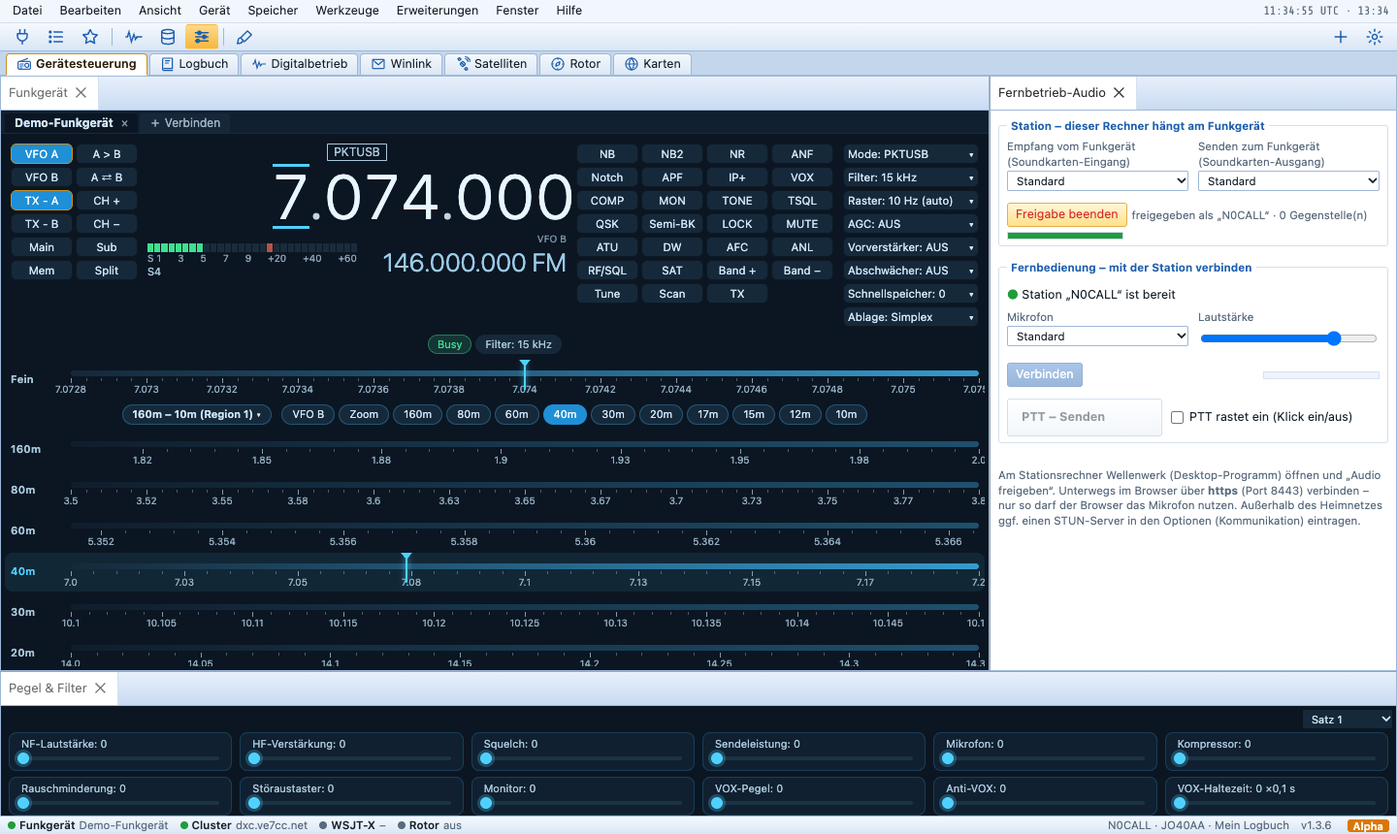
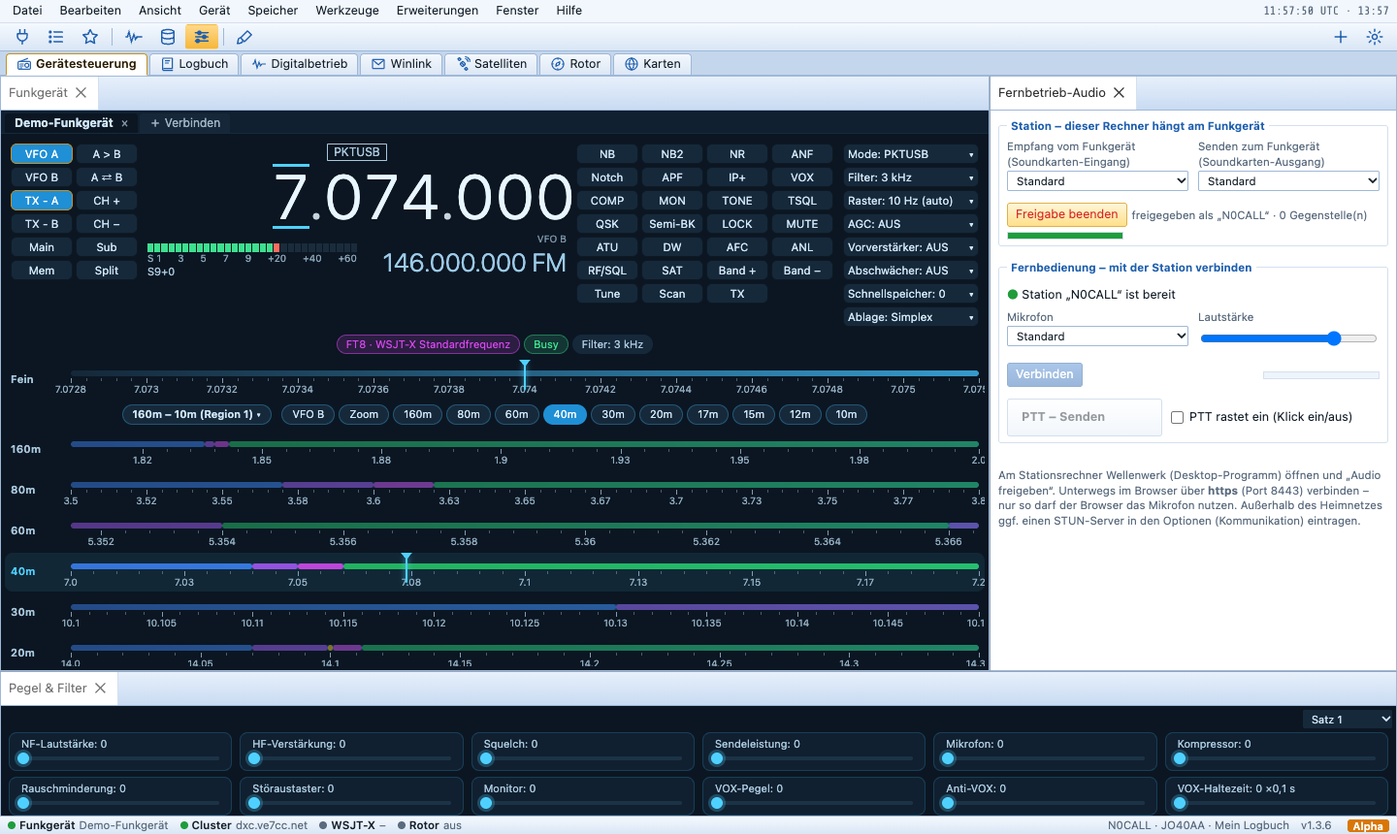
Bandplan: Betriebsart und Filter automatisch, Frequenzliste der Digimodes
- Bandplan-Bereiche Region 1 (IARU, 160 m–23 cm), Region 2/3 vereinfacht;
  farbig auf den Bandskalen, aktueller Bereich als Kennzeichen
- Automatik: beim Wechsel des Bereichs oder auf bekannte Digi-Frequenzen
  Betriebsart und Filter nach Bandplan; Handwahl gilt bis zum
  Bereichswechsel; nicht bei Signalerkennung/Bandtasten mit gemerktem
  Mode; abschaltbar (Optionen → Bandplan)
- Frequenzliste FT8/FT4/JS8/WSPR/MSK144/PSK31/RTTY/Olivia/SSTV/FreeDV/
  CW-QRP: Fenster in Gerätesteuerung und Digitalbetrieb, Ausklappliste im
  FreeDV- und SSTV-Fenster; Klick stellt Frequenz, Mode, Filter ein
- Anleitung DE/EN, Bilder, englische Texte

Claude-Session: https://claude.ai/code/session_017n9uLddWcii3wRCcwvWadf

diff --git a/static/js/bandplan.js b/static/js/bandplan.js
@@ -1,0 +1,130 @@
+"use strict";
+// Wellenwerk – Bandplaene (Bereiche je Band mit Standard-Betriebsart und Filter) und Frequenzliste der Digimodes.
+// Region 1 nach dem IARU-Region-1-Bandplan (vereinfacht auf die Nutzungsbereiche), Region 2/3 vereinfacht.
+// Automatik: Wer in einen anderen Bereich oder auf eine bekannte Digi-Frequenz abstimmt, bekommt Betriebsart und Filter
+// nach Bandplan. Von Hand gewaehlte Betriebsart gilt, bis der Bereich verlassen wird. Abschaltbar (Optionen → Bandplan).
+
+// Art des Bereichs: Farbe, Name, Betriebsart (leer = Betriebsart nicht aendern)
+const SEG_KIND = {
+  cw: { c: "#3b82f6", n: "CW", m: "CW" }, narrow: { c: "#a855f7", n: "Schmalband / Digi", m: "PKTUSB" }, digi: { c: "#d946ef", n: "Digimodes", m: "PKTUSB" },
+  ssb: { c: "#22c55e", n: "SSB", m: "" }, all: { c: "#14b8a6", n: "alle Betriebsarten", m: "" }, beacon: { c: "#facc15", n: "Baken", m: "CW" },
+  fm: { c: "#f59e0b", n: "FM", m: "FM" }, rep: { c: "#fb923c", n: "FM-Relais", m: "FM" }, sat: { c: "#ef4444", n: "Satelliten", m: "" }, atv: { c: "#64748b", n: "ATV / breitbandig", m: "" },
+};
+const MODE_BW = { CW: 500, CWR: 500, USB: 2400, LSB: 2400, PKTUSB: 3000, PKTLSB: 3000, AM: 6000, FM: 0, RTTY: 500 };
+// [von kHz, bis kHz, Art, Betriebsart (optional, sonst aus der Art; SSB unter 10 MHz LSB, darueber USB), Bezeichnung]
+const BANDSEGS = {};
+BANDSEGS.R1 = [
+  [1810, 1838, "cw"], [1838, 1840, "narrow"], [1840, 1843, "digi"], [1843, 2000, "ssb"],
+  [3500, 3570, "cw"], [3570, 3600, "narrow"], [3600, 3620, "digi"], [3620, 3800, "ssb"],
+  [5351.5, 5354, "narrow"], [5354, 5366, "ssb", "USB"], [5366, 5366.5, "narrow"],
+  [7000, 7040, "cw"], [7040, 7050, "narrow"], [7050, 7060, "digi"], [7060, 7200, "ssb"],
+  [10100, 10130, "cw"], [10130, 10150, "narrow"],
+  [14000, 14070, "cw"], [14070, 14099, "narrow"], [14099, 14101, "beacon", "", "IBP-Baken"], [14101, 14112, "digi"], [14112, 14350, "ssb"],
+  [18068, 18095, "cw"], [18095, 18109, "narrow"], [18109, 18111, "beacon", "", "IBP-Baken"], [18111, 18168, "ssb"],
+  [21000, 21070, "cw"], [21070, 21110, "narrow"], [21110, 21120, "digi"], [21120, 21149, "narrow"], [21149, 21151, "beacon", "", "IBP-Baken"], [21151, 21450, "ssb"],
+  [24890, 24915, "cw"], [24915, 24929, "narrow"], [24929, 24931, "beacon", "", "IBP-Baken"], [24931, 24990, "ssb"],
+  [28000, 28070, "cw"], [28070, 28190, "narrow"], [28190, 28225, "beacon"], [28225, 29000, "ssb"], [29000, 29100, "all", "AM"], [29100, 29200, "fm", "", "FM-Simplex"],
+  [29200, 29300, "digi", "", "Digimodes / Packet"], [29300, 29510, "sat", "USB", "Satelliten-Downlink"], [29510, 29590, "rep", "", "Relais-Eingabe"], [29590, 29610, "fm", "", "FM-Anruf 29,600"], [29610, 29700, "rep", "", "Relais-Ausgabe"],
+  [50000, 50100, "cw"], [50100, 50300, "ssb", "USB"], [50300, 50400, "narrow"], [50400, 50500, "beacon"], [50500, 52000, "fm"],
+  [70000, 70100, "beacon"], [70100, 70250, "ssb", "USB"], [70250, 70500, "fm"],
+  [144000, 144110, "cw"], [144110, 144150, "narrow"], [144150, 144400, "ssb", "USB"], [144400, 144490, "beacon"], [144500, 144794, "all", "FM", "Simplex / Digi"],
+  [144794, 144990, "digi", "FM", "Digimodes / APRS"], [144990, 145194, "rep", "", "Relais-Eingabe"], [145194, 145206, "sat", "FM", "Raumfahrt"], [145206, 145594, "fm", "", "FM-Simplex"],
+  [145594, 145794, "rep", "", "Relais-Ausgabe"], [145794, 145806, "sat", "FM", "Raumfahrt (ISS)"], [145806, 146000, "sat", "FM"],
+  [430000, 432000, "rep", "", "Relais / Digi"], [432000, 432100, "cw"], [432100, 432400, "ssb", "USB"], [432400, 432490, "beacon"], [432500, 434000, "fm"],
+  [434000, 434594, "atv", "FM"], [434594, 435000, "rep", "", "Relais-Eingabe"], [435000, 438000, "sat", "FM"], [438000, 440000, "rep", "", "Relais / DMR / D-STAR"],
+  [1240000, 1296000, "atv", "FM"], [1296000, 1296150, "cw"], [1296150, 1296800, "ssb", "USB"], [1296800, 1297000, "beacon"], [1297000, 1300000, "fm"],
+];
+BANDSEGS.R2 = [
+  [1800, 1840, "cw"], [1840, 1843, "digi"], [1843, 2000, "ssb"],
+  [3500, 3570, "cw"], [3570, 3600, "narrow"], [3600, 4000, "ssb"],
+  [7000, 7070, "cw"], [7070, 7125, "narrow"], [7125, 7300, "ssb"],
+  [10100, 10130, "cw"], [10130, 10150, "narrow"],
+  [14000, 14070, "cw"], [14070, 14112, "narrow"], [14112, 14150, "cw"], [14150, 14350, "ssb"],
+  [18068, 18100, "cw"], [18100, 18110, "narrow"], [18110, 18168, "ssb"],
+  [21000, 21070, "cw"], [21070, 21200, "narrow"], [21200, 21450, "ssb"],
+  [24890, 24915, "cw"], [24915, 24930, "narrow"], [24930, 24990, "ssb"],
+  [28000, 28070, "cw"], [28070, 28300, "narrow"], [28300, 29300, "ssb"], [29300, 29510, "sat", "USB"], [29510, 29700, "fm"],
+  [50000, 50100, "cw"], [50100, 50300, "ssb", "USB"], [50300, 50400, "narrow"], [50400, 51000, "all", "USB"], [51000, 54000, "fm"],
+  [144000, 144100, "cw"], [144100, 144300, "ssb", "USB"], [144300, 144500, "all", "USB"], [144500, 148000, "fm"],
+  [420000, 432000, "fm"], [432000, 432100, "cw"], [432100, 433000, "ssb", "USB"], [433000, 435000, "fm"], [435000, 438000, "sat", "FM"], [438000, 450000, "rep"],
+];
+BANDSEGS.R3 = BANDSEGS.R1.map(s => s[0] === 7060 ? [7060, 7300, "ssb"] : s);
+// Digimode-Frequenzen (Rufzeichen-/Aktivitaetszentren, Einstellfrequenz in kHz). Weitere kommen aus static/freqs.json (FT8, FT4, JS8, WSPR …)
+const DIGI_EXTRA = {
+  PSK31: [1838, 3580, 7040, 10142, 14070, 18100, 21070, 24920, 28120, 50290, 144138],
+  RTTY: [3585, 7043, 10142, 14083, 18103, 21083, 24923, 28083],
+  Olivia: [3583, 7072, 10142, 14072, 14106, 18103, 21072, 28122],
+  SSTV: [[3735, "LSB"], [7165, "LSB"], [14230, "USB"], [14233, "USB"], [21340, "USB"], [28680, "USB"], [144500, "FM"], [145800, "FM", "ISS-SSTV"]],
+  FreeDV: [3625, 3643, 7177, 14236, 18118, 21313, 24933, 28330],
+  "CW-QRP": [[1836, "CW"], [3560, "CW"], [7030, "CW"], [10116, "CW"], [14060, "CW"], [18086, "CW"], [21060, "CW"], [24906, "CW"], [28060, "CW"]],
+};
+const DIGI_DM = { PSK31: "PSK31", RTTY: "RTTY", Olivia: "Olivia 8/250", "CW-QRP": "CW" };   // Betriebsart im Digitalbetrieb
+let BP_FREQS = null;
+async function digiFreqs() {
+  if (BP_FREQS) return BP_FREQS;
+  const L = {};
+  try { const j = await api("/api/freqs/typical"); for (const x of j.freqs || []) { if (x.g !== "ham" || !/^(FT8|FT4|JS8|WSPR|MSK144|Olivia|FreeDV|PSK31|RTTY)$/.test(x.t)) continue;
+    (L[x.t] ||= []).push({ f: x.f, m: x.m, n: x.n || "" }); } } catch { }
+  for (const [k, v] of Object.entries(DIGI_EXTRA)) for (const e of v) { const [kHz, m, n] = Array.isArray(e) ? e : [e, k === "SSTV" || k === "FreeDV" ? (e < 10000 ? "LSB" : "USB") : "PKTUSB"];
+    const f = Math.round(kHz * 1000); if (!(L[k] ||= []).some(x => Math.abs(x.f - f) < 500)) L[k].push({ f, m: k === "FreeDV" ? "USB" : m, n: n || "" }); }
+  for (const v of Object.values(L)) v.sort((a, b) => a.f - b.f);
+  return (BP_FREQS = L);
+}
+function planRegion() { return (PLAN_NAMES.find(x => x[0] === store.get("rc.plan", "R1-HF")) || PLAN_NAMES[0])[2]; }
+// Bereich und ggf. bekannte Digi-Frequenz an hz
+function planAt(hz) {
+  const k = hz / 1000, segs = BANDSEGS[planRegion()] || BANDSEGS.R1, s = segs.find(x => k >= x[0] && k < x[1]);
+  let spot = null;
+  if (BP_FREQS) for (const [t, v] of Object.entries(BP_FREQS)) for (const e of v) if (Math.abs(e.f - hz) <= 300 && !(t === "SSTV" || t === "FreeDV" || t === "CW-QRP")) spot = { t, ...e };
+  if (!s && !spot) return null;
+  const kind = s ? SEG_KIND[s[2]] : null;
+  let mode = spot ? spot.m : (s[3] || kind.m);
+  if (!mode && s && (s[2] === "ssb" || s[2] === "all")) mode = k < 10000 ? "LSB" : "USB";
+  return { key: spot ? `spot:${spot.t}:${spot.f}` : `seg:${s[0]}`, seg: s, kind, spot, mode, bw: mode ? (MODE_BW[mode] ?? 0) : null,
+    label: spot ? `${spot.t}${spot.n ? " · " + spot.n : ""}` : (s[4] || kind.n) };
+}
+// ---------- Automatik ----------
+const BPA = { key: null, override: null, sent: null, t: 0, timer: 0, lastMode: null };
+function planOn() { return store.get("opts", {}).plan !== false; }
+function planFollow() {
+  const r = WW.rig || {}; if (!r.connected || !r.freq) return;
+  const p = planAt(r.freq), key = p ? p.key : null;
+  if (BPA.lastMode && r.mode !== BPA.lastMode && key === BPA.key && (!BPA.sent || r.mode !== BPA.sent.mode)) BPA.override = key;   // von Hand umgestellt: gilt bis zum Bereichswechsel
+  BPA.lastMode = r.mode;
+  if (key === BPA.key) return;
+  BPA.key = key; BPA.override = null; const m0 = r.mode;
+  clearTimeout(BPA.timer);
+  BPA.timer = setTimeout(() => {                                // kurz warten: setzt der Aufrufer selbst eine Betriebsart (Bandtaste, Signalerkennung), gilt diese
+    const now = WW.rig || {}; if (!planOn() || !p || !p.mode || BPA.override === key || BPA.key !== key || now.mode !== m0) return;
+    if (typeof SIG !== "undefined" && SIG.run && !SIG.run.stop) return;          // Signalerkennung stellt selbst ein
+    if (now.receiver && !["USB", "LSB", "CW", "AM", "FM", "PKTUSB", "PKTLSB"].includes(p.mode)) return;
+    const mode = now.receiver && p.mode.startsWith("PKT") ? p.mode.slice(3) : p.mode;   // Empfaenger kennen kein PKTUSB
+    if (now.mode === mode && (!p.bw || Math.abs((now.passband || 0) - p.bw) < 50)) return;
+    BPA.sent = { mode, t: Date.now() }; setMode(mode, p.bw || 0);
+  }, 700);
+}
+WW.on("rig", planFollow);
+digiFreqs();
+// ---------- Frequenzliste der Digimodes ----------
+function tuneDigi(t, e) {
+  if (!WW.current) return toast("Kein Gerät verbunden", true);
+  BPA.key = `spot:${t}:${e.f}`; BPA.override = BPA.key;          // Auswahl ist ausdruecklich: nicht vom Bandplan ueberschreiben
+  setFreq(e.f).then(() => setMode(e.m, MODE_BW[e.m] ?? 0));
+  if (DIGI_DM[t] && typeof dmSetMode === "function") dmSetMode(DIGI_DM[t]);
+  toast(`${t} · ${fmtMHz(e.f)} MHz ${e.m}`);
+}
+function createFreqList(root, params = {}) {
+  root.innerHTML = `<div class="pane-tb fl-tabs"></div><div class="fl-body"></div>`;
+  let cur = params.mode || store.get("fl.mode", "FT8");
+  const draw = async () => { const L = await digiFreqs(); if (!L[cur]) cur = Object.keys(L)[0];
+    $(".fl-tabs", root).innerHTML = Object.keys(L).map(t => `<button type="button" data-t="${esc(t)}" class="${t === cur ? "on" : ""}">${esc(t)}</button>`).join("");
+    const f0 = WW.rig?.freq || 0;
+    $(".fl-body", root).innerHTML = `<table class="grid fl-t"><thead><tr><th>Band</th><th>Frequenz</th><th>Mode</th><th>Hinweis</th></tr></thead><tbody>${L[cur].map((e, i) =>
+      `<tr data-i="${i}" class="${Math.abs(e.f - f0) < 500 ? "sel" : ""}"><td>${esc(bandFor(e.f) || "")}</td><td>${fmtMHz(e.f)}</td><td>${esc(e.m)}</td><td>${esc(e.n || "")}</td></tr>`).join("")}</tbody></table>`; };
+  root.addEventListener("click", async e => { const b = e.target.closest("[data-t]"); if (b) { cur = b.dataset.t; store.set("fl.mode", cur); return draw(); }
+    const tr = e.target.closest("tr[data-i]"); if (tr) { const L = await digiFreqs(); tuneDigi(cur, L[cur][+tr.dataset.i]); } });
+  let lastF = 0; const off = WW.on("rig", () => { const f = WW.rig?.freq || 0; if (Math.abs(f - lastF) > 400) { lastF = f; draw(); } }); draw();
+  return () => off();
+}
+// Kurzliste als Ausklappmenue (z. B. im FreeDV-Fenster)
+async function freqMenu(anchor, t) { const L = await digiFreqs(); popupMenu(anchor, (L[t] || []).map(e => ({ label: `${bandFor(e.f) || ""}  ${fmtMHz(e.f)} ${e.m}${e.n ? " · " + e.n : ""}`, act: () => tuneDigi(t, e) }))); }

diff --git a/static/js/rig-panels.js b/static/js/rig-panels.js
@@ -397,6 +397,7 @@ APPS.rig = {
     swdata: { title: "KW-Datenbank", create: createSwData, dock: { ref: ["sliders", "face"], dir: "below" }, size: { height: 220 } },
     bandscope: { title: "Bandübersicht", create: createBandscope, dock: { ref: ["swdata", "sliders", "face"], dir: "within" } },
     panadapter: { title: "Panadapter", create: createPanadapter, dock: { ref: "face", dir: "below" }, size: { height: 300 } },
+    freqlist: { title: "Frequenzen Digimodes", create: (r, p) => createFreqList(r, p), dock: { ref: ["selection", "sliders", "face"], dir: "within" } },
     memories: { title: "Speicherkanäle", create: createMemories, dock: { ref: ["selection", "sliders", "face"], dir: "within" } },
   },
   layout(dv) { addPanel("rig", "face"); addPanel("rig", "sliders"); },
@@ -412,7 +413,7 @@ function rigMenus() {
     { label: "Bearbeiten", items: [{ label: "Frequenz eingeben …", key: "Enter", act: freqDialog }, { label: "Frequenz kopieren", act: () => navigator.clipboard?.writeText(fmtMHz(WW.rig.freq || 0)) }] },
     { label: "Ansicht", items: [panel("face", "Funkgerät"), panel("selection", "Bänder & Betriebsarten"), panel("sliders", "Pegel & Filter"), panel("waterfall", "Wasserfall (2D/3D)"),
       panel("decodes", "Datenempfang (DMR, D-STAR, APRS, Sensoren)"), panel("receivers", "Empfänger (SDR)"), panel("panadapter", "Panadapter"), panel("memories", "Speicherkanäle"),
-      panel("swdata", "KW-Datenbank"), panel("bandscope", "Bandübersicht"), panel("remoteaudio", "Fernbetrieb-Audio"), "-",
+      panel("freqlist", "Frequenzen Digimodes"), panel("swdata", "KW-Datenbank"), panel("bandscope", "Bandübersicht"), panel("remoteaudio", "Fernbetrieb-Audio"), "-",
       "Farbschema", ...Object.keys(SCHEMES).map(s => ({ label: s, act: () => { store.set("rc.scheme", s); if (RC.layout) { RC.layout.scheme = { base: s }; saveRigLayout(); } } })), "-",
       { label: "Vollbild", key: "F11", act: fullScreen }] },
     { label: "Gerät", items: [{ label: "Geräte-Informationen", act: rigInfo }, { label: "VFO A ⇄ B", act: () => act("/api/rig/op", { op: "XCHG" }) }, { label: "Split ein/aus", act: () => act("/api/rig/split", { on: !WW.rig.split }) }, { label: "PTT ein/aus", act: () => act("/api/rig/ptt", { on: !WW.rig.ptt }) }, "-",
@@ -423,7 +424,7 @@ function rigMenus() {
       { label: "Schnappschüsse …", icon: "i-save", act: () => snapshotsDialog() }, { label: "Zwei Geräte koppeln …", act: () => syncDialog() }] },
     { label: "Speicher", items: [{ label: "Frequenz merken (Schnellspeicher)", icon: "i-save", act: quickSave }, ...qs.map((q, i) => ({ label: `${i + 1}: ${fmtMHz(q.f)} ${q.m || ""}`, act: () => { setFreq(q.f); if (q.m) setMode(q.m); } })),
       ...(qs.length ? [{ label: "Schnellspeicher leeren", act: () => { store.set("qs." + WW.current, []); WW.emit("quicksave"); } }] : []), "-",
-      { label: "Als Favorit speichern …", icon: "i-star", act: () => addFavoriteDialog() }, { label: "Favoriten zeigen", act: () => addPanel("rig", "selection") }, { label: "Speicherkanäle des Geräts …", act: () => addPanel("rig", "memories") }, "-",
+      { label: "Als Favorit speichern …", icon: "i-star", act: () => addFavoriteDialog() }, { label: "Favoriten zeigen", act: () => addPanel("rig", "selection") }, { label: "Speicherkanäle des Geräts …", act: () => addPanel("rig", "memories") }, { label: "Frequenzen der Digimodes (FT8, PSK, RTTY, SSTV, FreeDV …)", icon: "i-list", act: () => addPanel("rig", "freqlist") }, "-",
       { label: "Makros bearbeiten …", act: openMacros }, ...macros.map(m => ({ label: "▸ " + m.name, act: () => runMacro(m.text) }))] },
     { label: "Werkzeuge", items: [{ label: "Panadapter", icon: "i-wave", act: () => addPanel("rig", "panadapter") }, { label: "Sprach-Keyer …", icon: "i-mic", act: openVoiceKeyer }, { label: "Fernbetrieb-Audio", icon: "i-mic", act: () => addPanel("rig", "remoteaudio") }, { label: "CW-Keyer (Digitalbetrieb)", act: () => switchApp("dm") }, "-",
       { label: "Neuer Logbuch-Eintrag …", icon: "i-plus", act: () => { switchApp("log"); setTimeout(() => openAle(), 100); } }, "-",

diff --git a/static/js/shell.js b/static/js/shell.js
@@ -252,7 +252,7 @@ function openOptions(tab = "station") {
   if (prev) { prev.querySelector(`.dtabs [data-t="${tab}"]`)?.click(); return prev; }
   const s = WW.settings, o = store.get("opts", {});
   const d = dialog({ title: "Programmoptionen", icon: "i-gear", wide: true, buttons: [["Abbrechen", "close"], ["Speichern", "save", "primary"]], body: `
-    <div class="dtabs">${[["station", "Station"], ["cluster", "DX-Cluster"], ["online", "Online-Dienste"], ["wsjtx", "WSJT-X"], ["keys", "Tastenkürzel"], ["comms", "Kommunikation"], ["wheel", "Mausrad"], ["oob", "Außerband"], ["smeter", "S-Meter"], ["modes", "Betriebsarten"], ["winlink", "Winlink"], ["access", "Zugang & API"], ["wf", "Wasserfall"], ["plugins", "Erweiterungen"], ["cw", "CW / WinKeyer"], ["links", "Programme & Sicherung"], ["support", "Fehler & Updates"], ["theme", "Darstellung"]]
+    <div class="dtabs">${[["station", "Station"], ["cluster", "DX-Cluster"], ["online", "Online-Dienste"], ["wsjtx", "WSJT-X"], ["keys", "Tastenkürzel"], ["comms", "Kommunikation"], ["wheel", "Mausrad"], ["oob", "Bandplan"], ["smeter", "S-Meter"], ["modes", "Betriebsarten"], ["winlink", "Winlink"], ["access", "Zugang & API"], ["wf", "Wasserfall"], ["plugins", "Erweiterungen"], ["cw", "CW / WinKeyer"], ["links", "Programme & Sicherung"], ["support", "Fehler & Updates"], ["theme", "Darstellung"]]
       .map(([k, l]) => `<button class="${k === tab ? "on" : ""}" data-t="${k}">${l}</button>`).join("")}</div>
     <div class="dtab ${tab === "station" ? "" : "hidden"}" data-t="station"><div class="grid2">
       <label>Rufzeichen<input name="callsign" value="${esc(s.callsign)}"></label><label>Locator<input name="locator" value="${esc(s.locator)}"></label>
@@ -294,6 +294,8 @@ function openOptions(tab = "station") {
       <label>Mausrad-Schritt auf den Abstimmleisten (Hz)<select name="o_wheel" data-local>${[1, 10, 50, 100, 250, 500, 1000, 5000].map(v => `<option ${+(o.wheel || 100) === v ? "selected" : ""}>${v}</option>`).join("")}</select></label>
       <label class="wide chkrow"><input type="checkbox" name="o_single" ${o.single ? "checked" : ""} data-local> Favoriten-Ordner mit Einfachklick öffnen</label></div></div>
     <div class="dtab ${tab === "oob" ? "" : "hidden"}" data-t="oob"><div class="grid2">
+      <label class="wide chkrow"><input type="checkbox" name="o_plan" ${o.plan !== false ? "checked" : ""} data-local> Betriebsart und Filter nach Bandplan einstellen (beim Wechsel in einen anderen Bereich oder auf eine bekannte Digi-Frequenz)</label>
+      <p class="hint wide">Eine von Hand gewählte Betriebsart bleibt, bis du den Bereich verlässt. Die Region des Bandplans wählst du an der Bandleiste der Gerätesteuerung.</p>
       <label class="wide chkrow"><input type="checkbox" name="o_oob" ${o.oob ? "checked" : ""} data-local> Ton beim Verlassen und Betreten eines Amateurfunkbandes</label></div></div>
     <div class="dtab ${tab === "modes" ? "" : "hidden"}" data-t="modes"><div class="grid2">
       <label class="wide">Betriebsarten und RST-Vorgabe (eine Zeile je Mode: <code>MODE RST</code>)<textarea name="mode_rst" rows="14" spellcheck="false" style="font-family:monospace">${esc(s.mode_rst || MODE_RST_DEFAULT)}</textarea></label>

diff --git a/static/js/freedv-ui.js b/static/js/freedv-ui.js
@@ -9,7 +9,7 @@ function createFreedv(root) {
       <label>Modus<select class="fd-mode">${["700D", "700E", "1600"].map(m => `<option ${m === st.mode ? "selected" : ""}>${m}</option>`).join("")}</select></label><span class="fd-avail hint"></span>
       <label>Empfang von<select class="fd-inp"></select></label><label>Lautsprecher<select class="fd-spk"></select></label>
       <label>Mikrofon<select class="fd-mic"></select></label><label>Senden zum Funkgerät (Soundkarte)<select class="fd-out"></select></label></div>
-    <div class="ctl-row"><button class="fd-run primary">▶ Empfang</button><span class="fd-sync" title="Synchronisation">●</span><span class="fd-snr hint">–</span>
+    <div class="ctl-row"><button class="fd-run primary">▶ Empfang</button><button type="button" class="fd-freqs" title="FreeDV-Frequenzen">Frequenzen ▾</button><span class="fd-sync" title="Synchronisation">●</span><span class="fd-snr hint">–</span>
       <div class="ra-meter" title="Eingangspegel"><i class="fd-lvl"></i></div><label class="chk">Lautstärke <input type="range" class="fd-vol" min="0" max="1.5" step="0.05" value="${st.vol}"></label></div>
     <div class="ctl-row"><button class="fd-ptt" disabled>PTT – Sprechen</button><label class="chk"><input type="checkbox" class="fd-latch" ${st.latch ? "checked" : ""}> PTT rastet ein</label><span class="hint fd-txinfo"></span></div>
     <p class="hint">FreeDV-Signale liegen meist im USB auf eigenen Frequenzen (z. B. 14,236 MHz, 7,177 MHz, 3,625 MHz). Funkgerät auf USB, NF-Pegel so einstellen, dass die Pegelanzeige etwa zur Hälfte ausschlägt.</p></div>`;
@@ -17,6 +17,7 @@ function createFreedv(root) {
     $(".fd-inp", root).innerHTML = o("audioinput", st.inp, `<option value="__sdr" ${st.inp === "__sdr" || !navigator.mediaDevices?.getUserMedia ? "selected" : ""}>Empfänger (WebSDR/KiwiSDR/SDR)</option>`);
     $(".fd-spk", root).innerHTML = o("audiooutput", st.spk); $(".fd-mic", root).innerHTML = o("audioinput", st.mic); $(".fd-out", root).innerHTML = o("audiooutput", st.out); };
   api("/api/freedv").then(r => { $(".fd-avail", root).textContent = r.available ? "" : "codec2 fehlt (macOS: brew install codec2 · Linux: libcodec2-1.2)"; $(".fd-run", root).disabled = !r.available; }).catch(() => { });
+  $(".fd-freqs", root).onclick = e => freqMenu(e.currentTarget, "FreeDV");
   root.addEventListener("change", e => { const c = e.target.classList; const map = { "fd-mode": "mode", "fd-inp": "inp", "fd-spk": "spk", "fd-mic": "mic", "fd-out": "out" };
     for (const k in map) if (c.contains(k)) { st[map[k]] = e.target.value; if (FDV.on && k !== "fd-spk") { stop(); start(); } }
     if (c.contains("fd-latch")) st.latch = e.target.checked; store.set("fdv", st);

diff --git a/static/js/rig-face.js b/static/js/rig-face.js
@@ -228,7 +228,8 @@ function renderFace(rc) {
     [`Memory: ${r.mem >= 0 && r.mem != null ? r.mem : "–"}`, r.vfo === "MEM", "plain"], [`CTCSS: ${r.ctcss ? r.ctcss.toFixed(1) : "–"}`, !!f.TSQL || !!f.TONE, "plain"],
     [`RIT ${r.rit ? (r.rit > 0 ? "+" : "") + r.rit : ""}`, !!r.rit || f.RIT], [`XIT ${r.xit ? (r.xit > 0 ? "+" : "") + r.xit : ""}`, !!r.xit || f.XIT],
     ["DSP", !!(f.NR || f.ANF || f.NB)], ["Lock", !!f.LOCK]];
-  $(".rc-status", rc).innerHTML = (r.ptt ? `<span class="chip tx">PWR ${Math.round((m.RFPOWER_METER || 0) * 100)} · SWR ${(m.SWR ?? 1).toFixed(1)} · ALC ${Math.round((m.ALC || 0) * 100)}</span>` : "")
+  const bp = typeof planAt === "function" && r.freq ? planAt(r.freq) : null;
+  $(".rc-status", rc).innerHTML = (bp ? `<span class="chip plan" style="--pc:${bp.spot ? "#d946ef" : bp.kind.c}" title="Bandplan">${esc(bp.label)}</span>` : "") + (r.ptt ? `<span class="chip tx">PWR ${Math.round((m.RFPOWER_METER || 0) * 100)} · SWR ${(m.SWR ?? 1).toFixed(1)} · ALC ${Math.round((m.ALC || 0) * 100)}</span>` : "")
     + st.filter(([, on]) => on).map(([t, , cls]) => `<span class="chip ${cls || ""}">${esc(t.trim())}</span>`).join("")
     + (r.connected ? "" : `<span class="chip warn">${esc(r.error || "nicht verbunden")}</span>`);
   // Tastenzustaende
@@ -381,6 +382,9 @@ function renderBars(rc) {
         html += `<span class="sp st-${s.status || "none"}" style="left:${(s.freq - lo) * px}px" data-f="${s.freq}" data-call="${esc(s.call)}" data-cmt="${esc(s.comment)}" title="${esc(s.call)} ${(s.freq / 1e3).toFixed(1)} ${esc(s.country)}">${esc(s.call)}</span>`; });
       qs.forEach((q, i) => { if (q.f >= lo && q.f <= hi) html += `<span class="qs" style="left:${(q.f - lo) * px}px" data-f="${q.f}" data-m="${esc(q.m || "")}" title="Schnellspeicher ${i + 1}: ${fmtMHz(q.f)} ${esc(q.m || "")}">${i + 1}</span>`; });
     }
+    if (!fine && typeof BANDSEGS !== "undefined") for (const sg of BANDSEGS[planRegion()] || []) {   // Bandplan-Bereiche farbig auf der Skala
+      const a = Math.max(lo, sg[0] * 1000), b = Math.min(hi, sg[1] * 1000); if (b <= a) continue; const k = SEG_KIND[sg[2]];
+      html = `<i class="sg" style="left:${(a - lo) * px}px;width:${Math.max(1, (b - a) * px)}px;background:${k.c}" title="${esc((sg[4] || k.n) + ` · ${sg[0]}–${sg[1]} kHz`)}"></i>` + html; }
     const inR = f >= lo && f <= hi;
     rul.parentElement.classList.toggle("cur", inR && !fine);
     if (inR) html += `<b class="mk" style="left:${(f - lo) * px}px"></b>`;

diff --git a/static/js/dmapp.js b/static/js/dmapp.js
@@ -283,7 +283,7 @@ APPS.dm = {
   panels: {
     waterfall: { title: "Wasserfall", create: createWaterfall }, rx: { title: "Empfang", create: createDmRx }, tx: { title: "Senden", create: createDmTx },
     macros: { title: "Makros", create: createDmMacros }, qso: { title: "QSO", create: createDmQso }, tags: { title: "Über mich", create: createDmTags },
-    radio: { title: "Gerätestatus", create: createRadioPane }, sweeper: { title: "WWK Sweeper", create: createSweeper }, worldmap: { title: "Weltkarte", create: createDmMap },
+    radio: { title: "Gerätestatus", create: createRadioPane }, freqlist: { title: "Frequenzen", create: (r, p) => createFreqList(r, p), dock: { ref: ["macros", "rx"], dir: "within" } }, sweeper: { title: "WWK Sweeper", create: createSweeper }, worldmap: { title: "Weltkarte", create: createDmMap },
     sstv: { title: "SSTV", create: createSstv, dock: { ref: "rx", dir: "within" } }, sstvgal: { title: "SSTV-Bilder", create: createSstvGallery, dock: { ref: ["sweeper", "rx"], dir: "within" } },
   },
   layout(dv) {
@@ -311,7 +311,8 @@ APPS.dm = {
   toolbar: [   // eigene Gruppierung: Betrieb, dann Ton/Gerät; Programmwechsel ueber die Reiter
     { label: "QSO", icon: "i-edit", act: () => addPanel("dm", "qso") }, { label: "WWK Sweeper", icon: "i-scan", act: () => addPanel("dm", "sweeper") }, { label: "SSTV", icon: "i-cam", act: () => addPanel("dm", "sstv") }, "|",
     { label: "Wasserfall", icon: "i-wave", act: () => addPanel("dm", "waterfall") }, { label: "Soundkarte", icon: "i-mic", act: () => dmStart(store.get("dm.in", "")), on: () => D.running },
-    { label: "Gerätestatus", icon: "i-radio", act: () => addPanel("dm", "radio") }, "->",
+    { label: "Gerätestatus", icon: "i-radio", act: () => addPanel("dm", "radio") },
+    { label: "Frequenzen", icon: "i-list", title: "Frequenzliste der Digimodes", act: () => { const m = D.mode || ""; store.set("fl.mode", /^PSK/.test(m) ? "PSK31" : /^RTTY/.test(m) ? "RTTY" : /^(Olivia|Contestia)/.test(m) ? "Olivia" : m === "CW" ? "CW-QRP" : store.get("fl.mode", "FT8")); addPanel("dm", "freqlist"); } }, "->",
     { html: `<div class="ribbon-box rb-clk"></div>`, init: el => setInterval(() => el.textContent = new Date().toISOString().slice(11, 19) + " UTC", 1000) },
     { label: "Optionen", icon: "i-gear", act: () => openOptions() },
   ],

diff --git a/static/js/sstv-ui.js b/static/js/sstv-ui.js
@@ -23,7 +23,8 @@ async function sstvSave(img) {
 }
 
 function createSstv(root) {
-  root.innerHTML = `<div class="pane-tb"><label class="chk"><input type="checkbox" class="ss-on"> Empfang</label>
+  root.addEventListener("click", e => { const b = e.target.closest(".ss-freqs"); if (b) freqMenu(b, "SSTV"); });
+  root.innerHTML = `<div class="pane-tb"><label class="chk"><input type="checkbox" class="ss-on"> Empfang</label><button type="button" class="ss-freqs" title="SSTV-Frequenzen">Frequenzen ▾</button>
     <label class="chk">Modus <select class="ss-mode"><option value="">automatisch (VIS)</option>${Object.keys(SSTV_MODES).map(m => `<option ${m === store.get("sstv.mode", "") ? "selected" : ""}>${m}</option>`).join("")}</select></label>
     <button class="ss-now" title="Bild läuft schon: ab jetzt im gewählten Modus empfangen">Jetzt starten</button>
     <button class="ss-tx primary">Bild senden …</button><button class="ss-save">Speichern</button><span class="hint ss-st"></span></div>

diff --git a/static/style.css b/static/style.css
@@ -477,3 +477,7 @@ tr.now td { background: #c9efcf; } canvas.pol { margin: auto; display: block; }
 .rot-mapbox { position: relative; height: calc(100% - 34px); }
 canvas.dial { background: #02060d; } .rot-dials { background: radial-gradient(ellipse at center, #071a2c 0%, #02060d 75%); }
 .rot-ctl { background: #02060d; border-top: 1px solid rgba(43,212,255,.25); }
+.rc-ruler .sg { position: absolute; top: 11px; height: 6px; border-radius: 3px; opacity: .85; pointer-events: auto; }
+.rc-bar:not(.cur) .rc-ruler .sg { opacity: .45; }
+.rc-status .chip.plan { color: var(--pc); background: color-mix(in srgb, var(--pc) 16%, transparent); border-color: color-mix(in srgb, var(--pc) 50%, transparent); }
+.fl-tabs { flex-wrap: wrap; gap: 3px; } .fl-tabs button.on { background: var(--accent); color: #fff; } .fl-body { overflow: auto; height: calc(100% - 64px); } .fl-t tr { cursor: pointer; }

diff --git a/static/index.html b/static/index.html
@@ -32,6 +32,7 @@
 <script src="/static/js/sigid.js?v=__V__"></script>
 <script src="/static/js/rig-face.js?v=__V__"></script>
 <script src="/static/js/rig-panels.js?v=__V__"></script>
+<script src="/static/js/bandplan.js?v=__V__"></script>
 <script src="/static/js/remote-audio.js?v=__V__"></script>
 <script src="/static/js/sdr.js?v=__V__"></script>
 <script src="/static/js/waterfall.js?v=__V__"></script>

diff --git a/docs/Anleitung.md b/docs/Anleitung.md
@@ -198,6 +198,14 @@ Frequenzen zwischen den Kanälen bringen nichts – Wellenwerk stimmt deshalb im
 
 Von Hand lässt sich jeder Schritt von 10 Hz bis 100 kHz festlegen. Ein **Klick in den Wasserfall** rastet im Raster ein (die Signalerkennung legt ihre gemessene Frequenz ebenfalls aufs Raster, AM-Rundfunk z. B. auf 5 kHz), **Bild ↑/Bild ↓** gehen einen Schritt weiter, und das Mausrad auf der Abstimmskala springt bei Kanalrastern von Kanal zu Kanal.
 
+### Bandplan: Betriebsart und Filter automatisch
+
+Wellenwerk kennt den Bandplan (Region 1 nach dem IARU-Bandplan von 160 m bis 23 cm, Region 2 und 3 vereinfacht; Region an der Bandleiste wählen). Die Bereiche sind auf den Bandskalen farbig: **blau** CW, **violett** Schmalband/Digimodes, **grün** SSB, **türkis** alle Betriebsarten, **gelb** Baken, **orange** FM und Relais, **rot** Satelliten. Der aktuelle Bereich steht als Kennzeichen unter der Anzeige (z. B. „CW“, „SSB“, „Digimodes / APRS“ oder „FT8 · WSJT-X Standardfrequenz“).
+
+Wechselst du in einen anderen Bereich oder stimmst du auf eine bekannte Digi-Frequenz ab (z. B. FT8 auf 7,074 MHz), stellt Wellenwerk **Betriebsart und Filter** passend ein: CW mit 500 Hz, SSB mit 2,4 kHz (unter 10 MHz LSB, darüber USB), Digimodes PKTUSB mit 3 kHz, FM. Stellst du die Betriebsart von Hand um, bleibt sie, bis du den Bereich verlässt. Bei Bandtasten mit gemerkter Betriebsart und während der Signalerkennung greift die Automatik nicht. Abschalten unter **Optionen → Bandplan**.
+
+**Frequenzliste der Digimodes:** FT8, FT4, JS8, WSPR, MSK144, PSK31, RTTY, Olivia, SSTV, FreeDV und CW-QRP mit ihren Aktivitätsfrequenzen je Band – ein Klick stellt Frequenz, Betriebsart und Filter ein (im Digitalbetrieb auch die passende Betriebsart dort). Zu finden unter **Speicher → Frequenzen der Digimodes** (Gerätesteuerung), **Frequenzen** in der Werkzeugleiste des Digitalbetriebs sowie als Ausklappliste **Frequenzen ▾** im FreeDV- und im SSTV-Fenster.
+
 ### Markierungen im Wasserfall: typische Frequenzen, Rundfunk, Relais
 
 ![Rundfunksender im 49-m-Band, gerade auf Sendung (EiBi)](bilder/26-markierungen.png)

diff --git a/docs/Manual.md b/docs/Manual.md
@@ -204,6 +204,14 @@ Frequencies between channels are of no use – Wellenwerk therefore tunes in the
 
 Any step from 10 Hz to 100 kHz can also be set by hand. A **click in the waterfall** snaps to the raster (signal identification also puts its measured frequency on the raster, AM broadcast e.g. on 5 kHz), **Page Up/Page Down** move one step, and the mouse wheel on the tuning scale jumps from channel to channel in channel rasters.
 
+### Band plan: mode and filter automatically
+
+Wellenwerk knows the band plan (region 1 after the IARU band plan from 160 m to 23 cm, regions 2 and 3 simplified; choose the region on the band row). The segments are coloured on the band scales: **blue** CW, **violet** narrow band/digimodes, **green** SSB, **teal** all modes, **yellow** beacons, **orange** FM and repeaters, **red** satellites. The current segment is shown as a tag below the display (e.g. “CW”, “SSB”, “Digimodes / APRS” or “FT8 · WSJT-X standard frequency”).
+
+When you move into another segment or tune to a known digital frequency (e.g. FT8 on 7.074 MHz), Wellenwerk sets **mode and filter** accordingly: CW with 500 Hz, SSB with 2.4 kHz (LSB below 10 MHz, USB above), digimodes PKTUSB with 3 kHz, FM. If you change the mode by hand, it stays until you leave the segment. Band buttons with a remembered mode and signal identification are not overridden. Switch it off under **Options → Band plan**.
+
+**Digimode frequency list:** FT8, FT4, JS8, WSPR, MSK144, PSK31, RTTY, Olivia, SSTV, FreeDV and CW QRP with their activity frequencies per band – a click sets frequency, mode and filter (in digital modes also the matching mode there). Found under **Memory → Digimode frequencies** (radio control), **Frequencies** in the digital-modes toolbar and as a drop-down **Frequencies ▾** in the FreeDV and SSTV windows.
+
 ### Markers in the waterfall: typical frequencies, broadcast, repeaters
 
 ![Broadcast stations in the 49 m band, on air now (EiBi)](bilder/26-markierungen.png)
